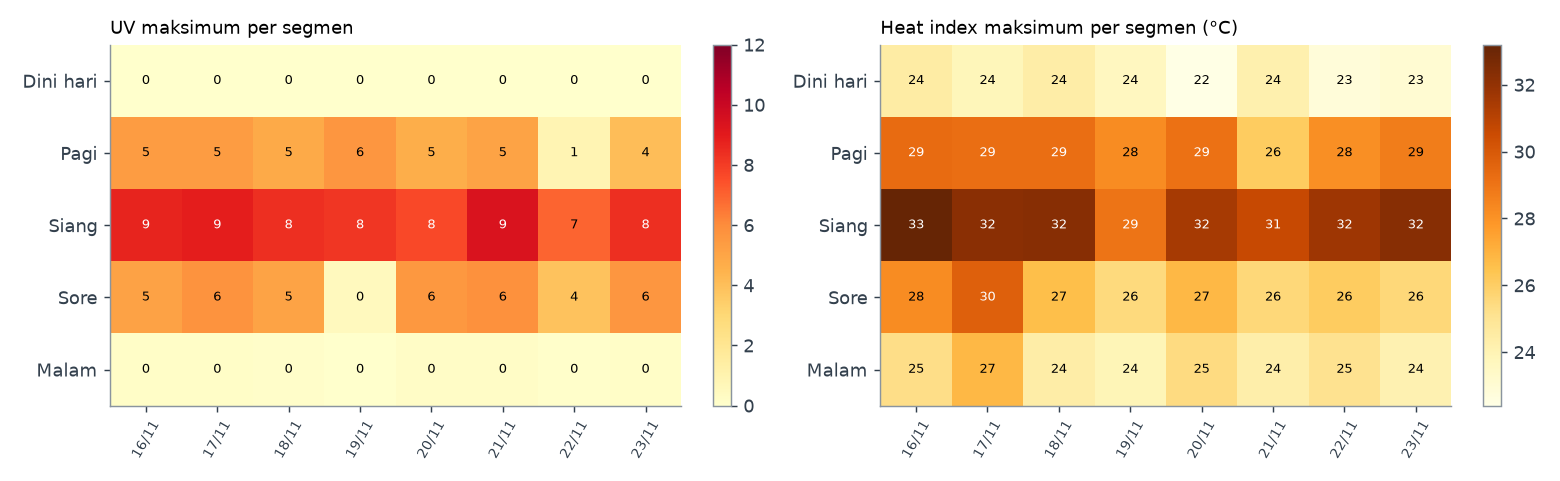
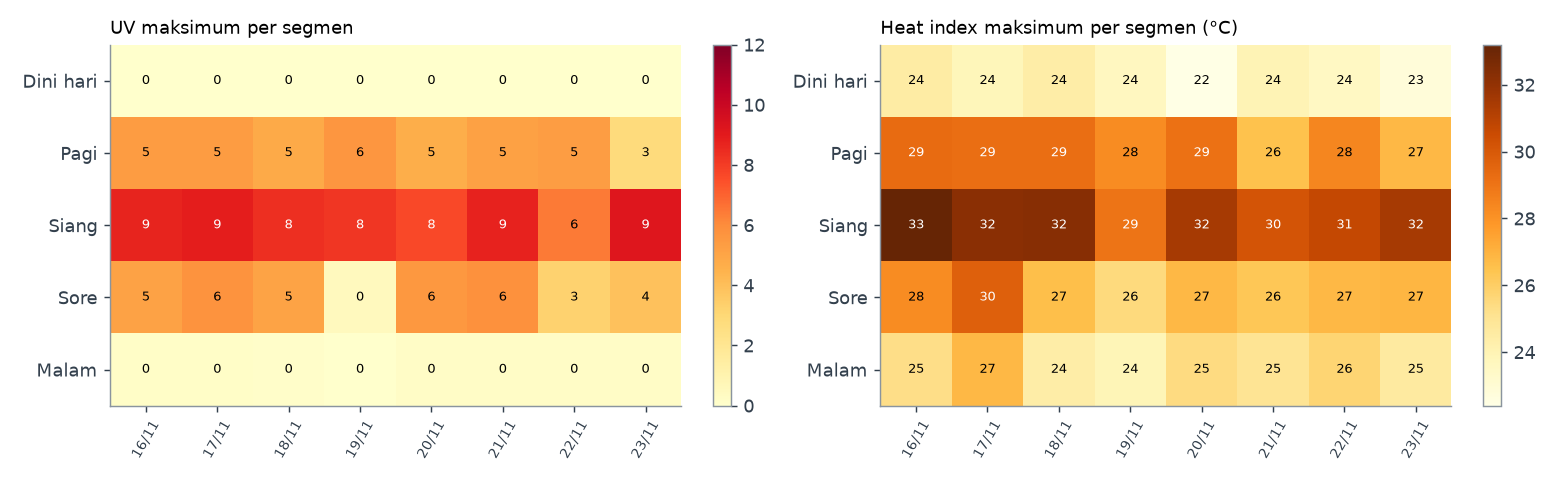
data: update 2026-11-21 14:02 WIB

Changed region(s): [[0.7692, 0.2183, 0.9538, 0.842], [0.3385, 0.2183, 0.4615, 0.7173]]

diff --git a/docs/index.html b/docs/index.html
@@ -32,18 +32,18 @@ footer{margin-top:32px;color:var(--mut);font-size:.82rem}
 footer a,details a{color:var(--accent)}
 </style></head><body><div class="wrap">
 <header><h1>UV dan Heat Index — ITB Ganesha, Bandung</h1>
-<p>Sabtu, 21 November 2026 · diperbarui 00:46 WIB · data Open-Meteo</p></header>
+<p>Sabtu, 21 November 2026 · diperbarui 14:02 WIB · data Open-Meteo</p></header>
 <section class="kpis">
-<div class="kpi"><div class="l">Puncak UV</div><div class="v">9,3</div>
-<div class="s"><span class="pill" style="background:#d62f2f;color:#ffffff">Sangat tinggi</span> pukul 12:00 WIB</div><div class="s">Perkiraan kasar: kulit sensitif mulai memerah dalam ±20 menit tanpa perlindungan</div></div>
-<div class="kpi"><div class="l">Jam perlu proteksi (UV ≥ 3)</div><div class="v" style="font-size:1.35rem">08:00–17:00</div><div class="s">Jendela aman (UV &lt; 3): 06:00–08:00, 17:00–18:00</div></div>
-<div class="kpi"><div class="l">Heat index tertinggi</div><div class="v">30,6 °C</div><div class="s"><span class="pill" style="background:#f2d600;color:#1b1b1b">Waspada</span></div></div>
+<div class="kpi"><div class="l">Puncak UV</div><div class="v">8,8</div>
+<div class="s"><span class="pill" style="background:#d62f2f;color:#ffffff">Sangat tinggi</span> pukul 11:00 WIB</div><div class="s">Perkiraan kasar: kulit sensitif mulai memerah dalam ±20 menit tanpa perlindungan</div></div>
+<div class="kpi"><div class="l">Jam perlu proteksi (UV ≥ 3)</div><div class="v" style="font-size:1.35rem">09:00–17:00</div><div class="s">Jendela aman (UV &lt; 3): 06:00–09:00, 17:00–18:00</div></div>
+<div class="kpi"><div class="l">Heat index tertinggi</div><div class="v">30,2 °C</div><div class="s"><span class="pill" style="background:#f2d600;color:#1b1b1b">Waspada</span></div></div>
 </section>
 <h2>Ringkasan dan tindakan per segmen waktu</h2>
 <div class="tablewrap"><table><thead><tr><th>Segmen (WIB)</th><th>UV maks</th><th>Heat index maks</th><th>Kepastian</th><th>Tindakan</th></tr></thead>
-<tbody><tr class='now'><td><b>Dini hari</b><br><small>00:00–06:00</small><br><small>Berlangsung</small></td><td><span class="pill" style="background:#d9dee3;color:#33404d">Tidak ada</span></td><td><span class="n">24,2 °C</span> <span class="pill" style="background:#2e8b3d;color:#ffffff">Aman</span><br><small>suhu rata-rata 23 °C, RH 90%</small></td><td><small>Tinggi · HI 23–25 °C</small></td><td>Tabir surya tidak diperlukan.</td></tr><tr class=''><td><b>Pagi</b><br><small>06:00–10:00</small><br><small>Akan datang</small></td><td><span class="n">5,1</span> <span class="pill" style="background:#f2d600;color:#1b1b1b">Sedang</span><br><small>puncak 09:00</small></td><td><span class="n">26,1 °C</span> <span class="pill" style="background:#2e8b3d;color:#ffffff">Aman</span><br><small>suhu rata-rata 24 °C, RH 84%</small></td><td><small>Tinggi · UV 5,1–5,5 · HI 25–28 °C · CAMS 5,5 · skenario terburuk</small></td><td>SPF 30+ dan kacamata hitam; cari teduh saat terik. Bawa botol minum; minum sebelum haus. Mendung tidak mengurangi risiko UV.</td></tr><tr class=''><td><b>Siang</b><br><small>10:00–15:00</small><br><small>Akan datang</small></td><td><span class="n">9,3</span> <span class="pill" style="background:#d62f2f;color:#ffffff">Sangat tinggi</span><br><small>puncak 12:00</small></td><td><span class="n">30,6 °C</span> <span class="pill" style="background:#f2d600;color:#1b1b1b">Waspada</span><br><small>suhu rata-rata 27 °C, RH 72%</small></td><td><small>Tinggi · UV 9,3–10,2 · HI 27–34 °C · CAMS 10,2 · skenario terburuk</small></td><td>Hindari luar ruang tanpa naungan; bila perlu SPF 50+, topi, pakaian menutup. Minum ±250 ml tiap jam secara perlahan; kurangi aktivitas berat. Mendung tidak mengurangi risiko UV. Bawa payung.</td></tr><tr class=''><td><b>Sore</b><br><small>15:00–18:00</small><br><small>Akan datang</small></td><td><span class="n">5,8</span> <span class="pill" style="background:#f2d600;color:#1b1b1b">Sedang</span><br><small>puncak 15:00</small></td><td><span class="n">25,6 °C</span> <span class="pill" style="background:#2e8b3d;color:#ffffff">Aman</span><br><small>suhu rata-rata 24 °C, RH 85%</small></td><td><small>Sedang · UV 1,4–5,8 · HI 24–29 °C · CAMS 1,4 · skenario terburuk</small></td><td>SPF 30+ dan kacamata hitam; cari teduh saat terik. Bawa botol minum; minum sebelum haus. Mendung tidak mengurangi risiko UV. Bawa payung.</td></tr><tr class=''><td><b>Malam</b><br><small>18:00–24:00</small><br><small>Akan datang</small></td><td><span class="pill" style="background:#d9dee3;color:#33404d">Tidak ada</span></td><td><span class="n">24,3 °C</span> <span class="pill" style="background:#2e8b3d;color:#ffffff">Aman</span><br><small>suhu rata-rata 23 °C, RH 88%</small></td><td><small>Tinggi · HI 23–25 °C</small></td><td>Tabir surya tidak diperlukan.</td></tr></tbody></table></div>
+<tbody><tr class='past'><td><b>Dini hari</b><br><small>00:00–06:00</small><br><small>Selesai</small></td><td><span class="pill" style="background:#d9dee3;color:#33404d">Tidak ada</span></td><td><span class="n">24,0 °C</span> <span class="pill" style="background:#2e8b3d;color:#ffffff">Aman</span><br><small>suhu rata-rata 22 °C, RH 90%</small></td><td><small>Tinggi · HI 23–25 °C</small></td><td>Tabir surya tidak diperlukan.</td></tr><tr class='past'><td><b>Pagi</b><br><small>06:00–10:00</small><br><small>Selesai</small></td><td><span class="n">5,2</span> <span class="pill" style="background:#f2d600;color:#1b1b1b">Sedang</span><br><small>puncak 09:00</small></td><td><span class="n">26,5 °C</span> <span class="pill" style="background:#2e8b3d;color:#ffffff">Aman</span><br><small>suhu rata-rata 24 °C, RH 85%</small></td><td><small>Tinggi · UV 5,2–5,7 · HI 25–28 °C · CAMS 5,7 · skenario terburuk</small></td><td>SPF 30+ dan kacamata hitam; cari teduh saat terik. Bawa botol minum; minum sebelum haus. Mendung tidak mengurangi risiko UV.</td></tr><tr class='now'><td><b>Siang</b><br><small>10:00–15:00</small><br><small>Berlangsung</small></td><td><span class="n">8,8</span> <span class="pill" style="background:#d62f2f;color:#ffffff">Sangat tinggi</span><br><small>puncak 11:00</small></td><td><span class="n">30,2 °C</span> <span class="pill" style="background:#f2d600;color:#1b1b1b">Waspada</span><br><small>suhu rata-rata 27 °C, RH 69%</small></td><td><small>Rendah · UV 4,9–8,8 · HI 28–32 °C · CAMS 4,9</small></td><td>Hindari luar ruang tanpa naungan; bila perlu SPF 50+, topi, pakaian menutup. Bawa botol minum; minum sebelum haus. Mendung tidak mengurangi risiko UV. Bawa payung.</td></tr><tr class=''><td><b>Sore</b><br><small>15:00–18:00</small><br><small>Akan datang</small></td><td><span class="n">5,8</span> <span class="pill" style="background:#f2d600;color:#1b1b1b">Sedang</span><br><small>puncak 15:00</small></td><td><span class="n">26,3 °C</span> <span class="pill" style="background:#2e8b3d;color:#ffffff">Aman</span><br><small>suhu rata-rata 25 °C, RH 79%</small></td><td><small>Sedang · UV 1,8–5,8 · HI 25–29 °C · CAMS 1,8 · skenario terburuk</small></td><td>SPF 30+ dan kacamata hitam; cari teduh saat terik. Bawa botol minum; minum sebelum haus. Mendung tidak mengurangi risiko UV.</td></tr><tr class=''><td><b>Malam</b><br><small>18:00–24:00</small><br><small>Akan datang</small></td><td><span class="pill" style="background:#d9dee3;color:#33404d">Tidak ada</span></td><td><span class="n">25,0 °C</span> <span class="pill" style="background:#2e8b3d;color:#ffffff">Aman</span><br><small>suhu rata-rata 23 °C, RH 88%</small></td><td><small>Tinggi · HI 24–26 °C</small></td><td>Tabir surya tidak diperlukan.</td></tr></tbody></table></div>
 <h2>Pesan hari ini untuk mahasiswa</h2>
-<div class="tablewrap" style="padding:6px 20px"><ul style="padding-left:18px;margin:10px 0"><li>UV hari ini mencapai 9,3 (sangat tinggi) sekitar pukul 12:00. Pakai sunscreen dan cari tempat teduh pada 08:00–17:00.</li><li>Target minimal 8 gelas air putih sehari. Kalau kamu banyak di luar ruang, minum ±250 ml tiap jam secara perlahan. Cek warna pipis: kuning pucat berarti cukup.</li><li>Kombo hari ini: minum cukup + sunscreen + berteduh di jam puncak.</li></ul></div>
+<div class="tablewrap" style="padding:6px 20px"><ul style="padding-left:18px;margin:10px 0"><li>UV hari ini mencapai 8,8 (sangat tinggi) sekitar pukul 11:00. Pakai sunscreen dan cari tempat teduh pada 09:00–17:00.</li><li>Target minimal 8 gelas air putih sehari. Kalau kamu banyak di luar ruang, minum ±250 ml tiap jam secara perlahan. Cek warna pipis: kuning pucat berarti cukup.</li><li>Kombo hari ini: minum cukup + sunscreen + berteduh di jam puncak.</li></ul></div>
 <h2>Grafik</h2><div class="charts"><img src="today.png" alt="UV, heat index, dan suhu per jam hari ini"><img src="trend.png" alt="UV dan heat index maksimum per segmen, 14 hari"></div>
 <details><summary>Cara membaca, asumsi, dan ketidakpastian</summary><ul>
 <li>Nilai per segmen adalah <b>maksimum</b> dalam segmen tersebut (kondisi terburuk). Batas segmen: Dini hari 00–06, Pagi 06–10, Siang 10–15, Sore 15–18, Malam 18–24 WIB.</li>

diff --git a/README.md b/README.md
@@ -10,26 +10,26 @@ Pemantauan intensitas sinar UV dan heat index di kampus ITB Ganesha, Bandung, pe
 ## Kondisi hari ini
 
 <!-- TODAY:START -->
-**Sabtu, 21 November 2026** · ITB Ganesha, Bandung · diperbarui 00:46 WIB
+**Sabtu, 21 November 2026** · ITB Ganesha, Bandung · diperbarui 14:02 WIB
 
 | Ringkasan hari ini | |
 |---|---|
-| Puncak UV | **9,3** (Sangat tinggi) pukul 12:00 WIB |
-| Jam perlu proteksi (UV ≥ 3) | 08:00–17:00 |
-| Jendela UV aman (< 3) | 06:00–08:00, 17:00–18:00 |
-| Heat index tertinggi | **30,6 °C** (Waspada) |
+| Puncak UV | **8,8** (Sangat tinggi) pukul 11:00 WIB |
+| Jam perlu proteksi (UV ≥ 3) | 09:00–17:00 |
+| Jendela UV aman (< 3) | 06:00–09:00, 17:00–18:00 |
+| Heat index tertinggi | **30,2 °C** (Waspada) |
 
 | Segmen | Jam (WIB) | UV maks | Heat index maks | Kepastian | Tindakan |
 |---|---|---|---|---|---|
-| **Dini hari** (berlangsung) | 00:00–06:00 | Tidak ada | **24,2 °C** Aman | Tinggi · HI 23–25 °C | Tabir surya tidak diperlukan. |
-| **Pagi** | 06:00–10:00 | **5,1** Sedang (09:00) | **26,1 °C** Aman | Tinggi · UV 5,1–5,5 · HI 25–28 °C · CAMS 5,5 · skenario terburuk | SPF 30+ dan kacamata hitam; cari teduh saat terik. Bawa botol minum; minum sebelum haus. Mendung tidak mengurangi risiko UV. |
-| **Siang** | 10:00–15:00 | **9,3** Sangat tinggi (12:00) | **30,6 °C** Waspada | Tinggi · UV 9,3–10,2 · HI 27–34 °C · CAMS 10,2 · skenario terburuk | Hindari luar ruang tanpa naungan; bila perlu SPF 50+, topi, pakaian menutup. Minum ±250 ml tiap jam secara perlahan; kurangi aktivitas berat. Mendung tidak mengurangi risiko UV. Bawa payung. |
-| **Sore** | 15:00–18:00 | **5,8** Sedang (15:00) | **25,6 °C** Aman | Sedang · UV 1,4–5,8 · HI 24–29 °C · CAMS 1,4 · skenario terburuk | SPF 30+ dan kacamata hitam; cari teduh saat terik. Bawa botol minum; minum sebelum haus. Mendung tidak mengurangi risiko UV. Bawa payung. |
-| **Malam** | 18:00–24:00 | Tidak ada | **24,3 °C** Aman | Tinggi · HI 23–25 °C | Tabir surya tidak diperlukan. |
+| **Dini hari** | 00:00–06:00 | Tidak ada | **24,0 °C** Aman | Tinggi · HI 23–25 °C | Tabir surya tidak diperlukan. |
+| **Pagi** | 06:00–10:00 | **5,2** Sedang (09:00) | **26,5 °C** Aman | Tinggi · UV 5,2–5,7 · HI 25–28 °C · CAMS 5,7 · skenario terburuk | SPF 30+ dan kacamata hitam; cari teduh saat terik. Bawa botol minum; minum sebelum haus. Mendung tidak mengurangi risiko UV. |
+| **Siang** (berlangsung) | 10:00–15:00 | **8,8** Sangat tinggi (11:00) | **30,2 °C** Waspada | Rendah · UV 4,9–8,8 · HI 28–32 °C · CAMS 4,9 | Hindari luar ruang tanpa naungan; bila perlu SPF 50+, topi, pakaian menutup. Bawa botol minum; minum sebelum haus. Mendung tidak mengurangi risiko UV. Bawa payung. |
+| **Sore** | 15:00–18:00 | **5,8** Sedang (15:00) | **26,3 °C** Aman | Sedang · UV 1,8–5,8 · HI 25–29 °C · CAMS 1,8 · skenario terburuk | SPF 30+ dan kacamata hitam; cari teduh saat terik. Bawa botol minum; minum sebelum haus. Mendung tidak mengurangi risiko UV. |
+| **Malam** | 18:00–24:00 | Tidak ada | **25,0 °C** Aman | Tinggi · HI 24–26 °C | Tabir surya tidak diperlukan. |
 
 **Pesan hari ini untuk mahasiswa**
 
-- UV hari ini mencapai 9,3 (sangat tinggi) sekitar pukul 12:00. Pakai sunscreen dan cari tempat teduh pada 08:00–17:00.
+- UV hari ini mencapai 8,8 (sangat tinggi) sekitar pukul 11:00. Pakai sunscreen dan cari tempat teduh pada 09:00–17:00.
 - Target minimal 8 gelas air putih sehari. Kalau kamu banyak di luar ruang, minum ±250 ml tiap jam secara perlahan. Cek warna pipis: kuning pucat berarti cukup.
 - Kombo hari ini: minum cukup + sunscreen + berteduh di jam puncak.
 
@@ -44,20 +44,20 @@ Pemantauan intensitas sinar UV dan heat index di kampus ITB Ganesha, Bandung, pe
 <!-- HOURLY:START -->
 | Jam | UV | Heat index (°C) | Suhu (°C) | RH (%) | Awan (%) |
 |---:|---:|---:|---:|---:|---:|
-| 05:00 | 0,0 | 22,7 | 22,0 | 93 | 99 |
-| 06:00 | 0,1 | 23,0 | 22,3 | 91 | 99 |
-| 07:00 | 1,1 | 23,8 | 23,1 | 88 | 100 |
-| 08:00 | 3,0 | 24,6 | 24,0 | 83 | 95 |
-| 09:00 | 5,1 | 26,1 | 25,5 | 75 | 95 |
-| 10:00 | 7,1 | 28,7 | 26,9 | 70 | 98 |
-| 11:00 | 8,7 | 30,4 | 28,3 | 64 | 100 |
-| 12:00 | 9,3 | 30,6 | 28,4 | 64 | 100 |
-| 13:00 | 6,9 | 25,6 | 25,0 | 79 | 100 |
-| 14:00 | 7,0 | 25,5 | 24,8 | 82 | 99 |
-| 15:00 | 5,8 | 25,6 | 24,9 | 83 | 100 |
-| 16:00 | 3,7 | 24,8 | 24,1 | 85 | 99 |
-| 17:00 | 1,6 | 24,7 | 24,0 | 86 | 82 |
-| 18:00 | 0,2 | 24,3 | 23,6 | 87 | 88 |
+| 05:00 | 0,0 | 22,0 | 21,4 | 93 | 98 |
+| 06:00 | 0,1 | 22,0 | 21,4 | 94 | 88 |
+| 07:00 | 1,2 | 23,4 | 22,7 | 91 | 95 |
+| 08:00 | 2,9 | 25,2 | 24,6 | 81 | 98 |
+| 09:00 | 5,2 | 26,5 | 25,9 | 74 | 71 |
+| 10:00 | 7,6 | 29,0 | 27,3 | 66 | 41 |
+| 11:00 | 8,8 | 30,2 | 28,5 | 60 | 56 |
+| 12:00 | 7,9 | 26,4 | 25,9 | 71 | 98 |
+| 13:00 | 7,8 | 28,2 | 26,6 | 70 | 84 |
+| 14:00 | 7,2 | 25,8 | 25,2 | 79 | 98 |
+| 15:00 | 5,8 | 25,5 | 24,8 | 82 | 87 |
+| 16:00 | 3,7 | 26,3 | 25,7 | 76 | 95 |
+| 17:00 | 1,6 | 25,7 | 25,1 | 79 | 96 |
+| 18:00 | 0,2 | 25,0 | 24,3 | 84 | 98 |
 <!-- HOURLY:END -->
 
 </details>
